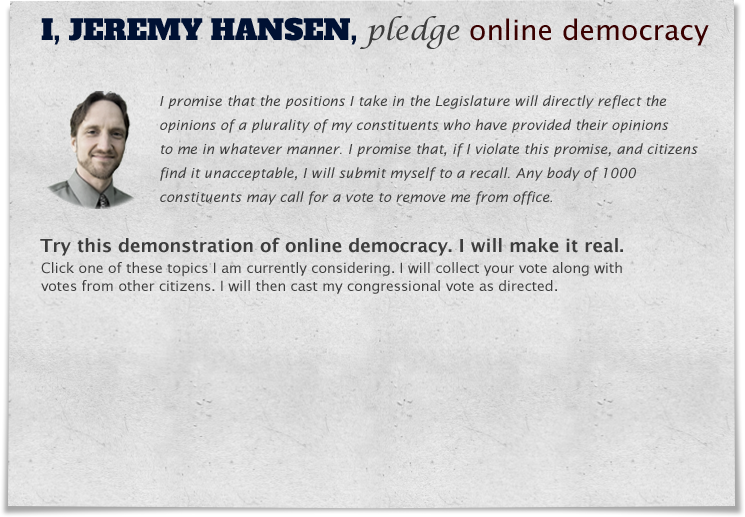
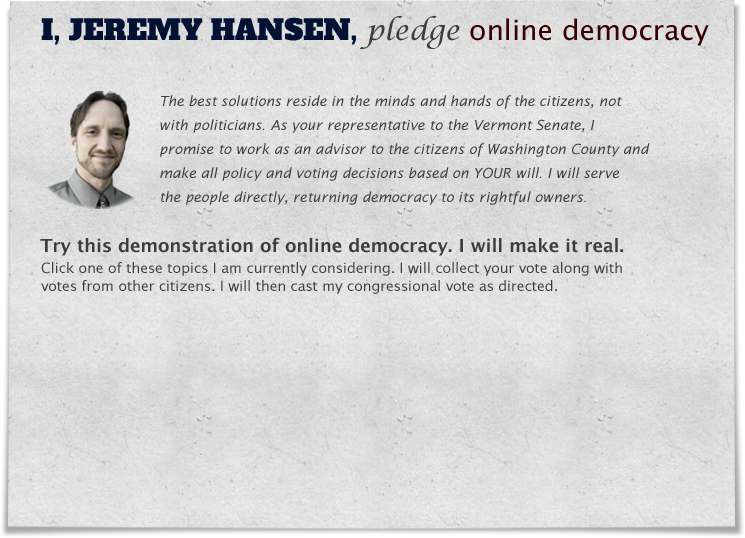
theme updates for directrep

diff --git a/app/assets/themes/directrep/stylesheets/considerit.theme.css.sass b/app/assets/themes/directrep/stylesheets/considerit.theme.css.sass
@@ -52,7 +52,14 @@ body #wrap > div#content
   margin-top: 4 * $vertical_baseline
   +chalkboard
   width: 100%
-  height: 3 * $vertical_baseline
+  height: 4 * $vertical_baseline
+  .paid_for
+    +font-size(-4)
+    text-align: center
+    text-transform: lowercase
+    font-variant: small-caps
+    padding-top: 10px
+
   .footer_wrapper
     position: relative
     width: 738px
@@ -60,21 +67,29 @@ body #wrap > div#content
     > div
       color: #e1e1e1
 
-      &.powered_by, &.report_problems
+      &.powered_by
         position: absolute
         margin-top: 0
         right: 0
-      &.powered_by
-        text-transform: lowercase
         +font-size(-2)
         top: -5px
+
+        .power
+          position: absolute
+        .power
+          top: 5px
+          left: -85px
         img
           position: relative
-          top: 8px
+          //top: 8px
+          display: block
+          padding-bottom: 5px
+
+        .paid_for
+          //padding-top: 10px
 
       &.report_problems
         display: none
-        top: $vertical_baseline * 3
 
       &#other_candidates
         text-align: left

diff --git a/app/assets/themes/directrep/stylesheets/_homepage.css.sass b/app/assets/themes/directrep/stylesheets/_homepage.css.sass
@@ -10,7 +10,7 @@ body #wrap.homepage
 
   #paper
     width: 755px
-    height: 517px
+    height: 538px
     top: 160px
     left: 50%
     margin-left: -373px
@@ -35,9 +35,20 @@ body #wrap.homepage
       position: relative
       top: 5px
 
+    #elect
+      position: absolute
+      bottom: 24px
+      left: 40px
+      a
+        text-decoration: underline
+      .label
+        font-weight: bold
+      .star
+        +font-size(-3)
+
     #proposals
       position: absolute
-      bottom: 13px
+      bottom: 35px
       left: 15px
       .horizontal .carousel
         height: 11 * $vertical_baseline
@@ -76,7 +87,7 @@ body #wrap.homepage
 
       .new_proposal
         position: absolute
-        bottom: -47px
+        bottom: -70px
         left: 20px
         .avatar
           left: 0px
